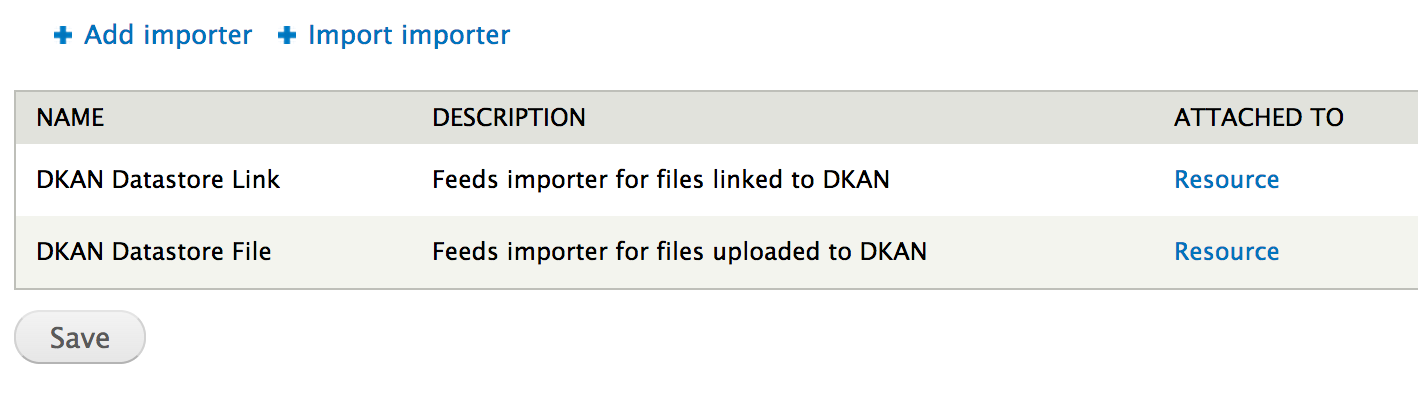
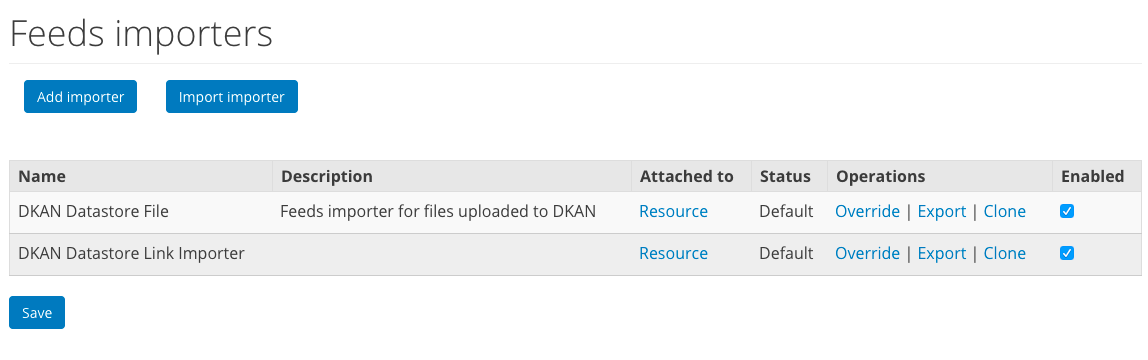
Update datastore doc images

diff --git a/docs/components/datastore.rst b/docs/components/datastore.rst
@@ -1,7 +1,7 @@
 DKAN Datastore
 ===============
 
-DKAN Datastore bundles a number of modules and configuration to allow users to upload CSV and XML files, parse them and save them into the native database as flat tables, allowing users to query them through a public API.
+DKAN Datastore bundles a number of modules and configuration to allow users to upload CSV files, parse them and save them into the native database as flat tables, allowing users to query them through a public API.
 
 **Drupal Architecture**
 
@@ -16,7 +16,7 @@ Getting Started
 
 When you create a dataset with resources, you have data in DKAN which you can display and store in several ways. However, DKAN is still reading this data directly from the file or API you added as a resource.
 
-To get the fullest functionality possible out of your datasets, you should add your CSV and XML resources to the datastore.
+To get the fullest functionality possible out of your datasets, you should add your CSV resources to the datastore.
 
 If you are exploring a resource that is not yet in the datastore, you will see a message advising you of this. 
 
@@ -43,20 +43,20 @@ Default behavior for linked and uploaded files is controlled through the `Feeds 
 
 .. image:: ../images/datastore-feeds-importers.png
 
-Import upon form submission
-^^^^^^^^^^^^^^^^^^^^^^^^^^^^^^^^^^^^^^
+Import on submission
+^^^^^^^^^^^^^^^^^^^^^^
 To import a Resource file upon saving the resource, click **Import on submission** in the settings section for each importer: 
 
 .. image:: ../images/datastore-import-submission.png
 
 This is not recommended for large imports as a batch screen will be triggered that will not stop until the entire file is imported.
 
-Import in the background
-^^^^^^^^^^^^^^^^^^^^^^^^^^^^^^^^^^^^^^
+Process in background
+^^^^^^^^^^^^^^^^^^^^^^^
 This setting means that once an import has started, it will be processed in 50 row increments in the background. Processing will occur during cron. The queue of imports is managed by the `Job Schedule <http://dgo.to/job_scheduler>`_ module. Each cron run will `process a maximum of 200 jobs in a maximum of 30 seconds <http://cgit.drupalcode.org/job_scheduler/tree/job_scheduler.module?id=7.x-2.0-alpha3#n54>`_. Note that an import won't be started by saving the Resource form. This will only be triggered by clicking "Import" on the "Manage Datastore" page or if triggered programatically. This setting can be used in addition to "Import on submission" option to start imports that will be imported in the background.
 
-Import periodically
-^^^^^^^^^^^^^^^^^^^^^^^^^^^^^^^^^^^^^^
+Periodic import
+^^^^^^^^^^^^^^^^^^^^^^^
 Importing items on a periodic basis makes the most sense if you have a file you are linking to that you want to periodically re-import. This setting requires that cron is running on a regular schedule.
 
 Geocoder
@@ -73,7 +73,7 @@ Instructions
 5. In the Geolocate Addressses field enter the field or fields from the file that make up the address to geolocate.
 6. Click the **Import** button
 
-.. image:: images/datastore-geolocate.png
+.. image:: ../images/datastore-geolocate.png
 
 Geolocation Services
 ^^^^^^^^^^^^^^^^^^^^^
@@ -81,10 +81,10 @@ Geolocation services offered are
 
 * `Google <https://developers.google.com/maps/articles/geocodestrat>`_
 * `Yahoo <http://developer.yahoo.com/boss/geo/>`_
-* `Open Geocoding API <href="https://developer.mapquest.com/documentation/open/geocoding-api/>`_
+* `Nominatim <href="https://developer.mapquest.com/documentation/open/geocoding-api/>`_
 * `Yandex <http://api.yandex.com/maps/doc/geocoder/desc/concepts/input_params.xml>`_
 
-Note that Open Geocoding API is a driven by `Open Street Map <http://www.openstreetmap.org/>`_ data, which is the most open of the options offered.
+Note that Nominatim is a driven by `Open Street Map <http://www.openstreetmap.org/>`_ data, which is the most open of the options offered.
 
 Geolocation Limits
 ^^^^^^^^^^^^^^^^^^^
@@ -219,7 +219,7 @@ To import a resource using Fast Import:
 
 - Create a resource using a CSV file (**node/add/resource**) or edit an existing one.
 - Click on **Manage Datastore**
-- Make sure **No imported items.** legend shows up.
+- Make sure the status says **No imported items** (You can use the **Drop Datastore** link if needed).
 - Check **Use Fast Import** checkbox
 - Press **import**
 
